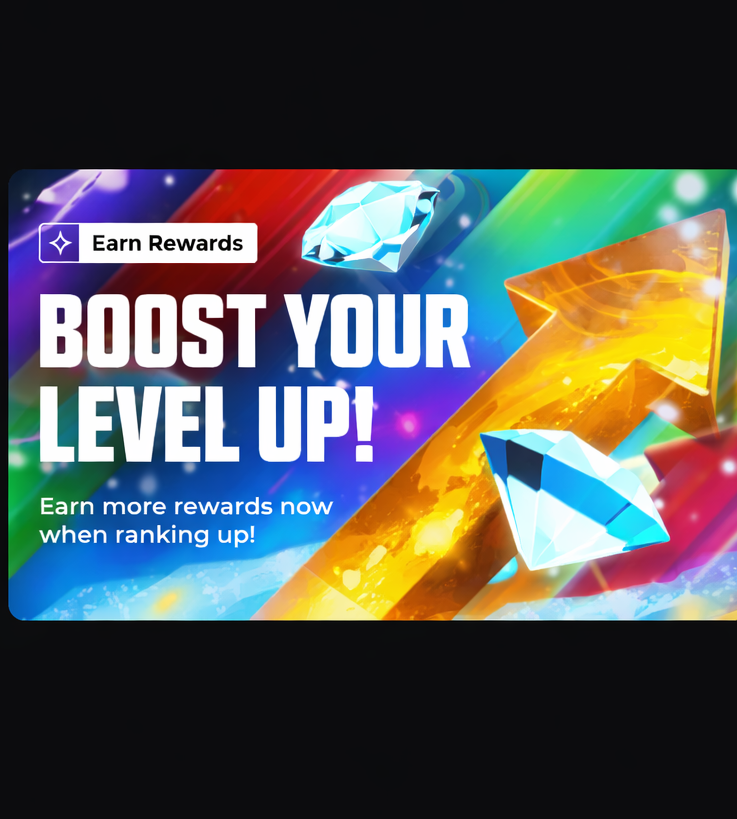
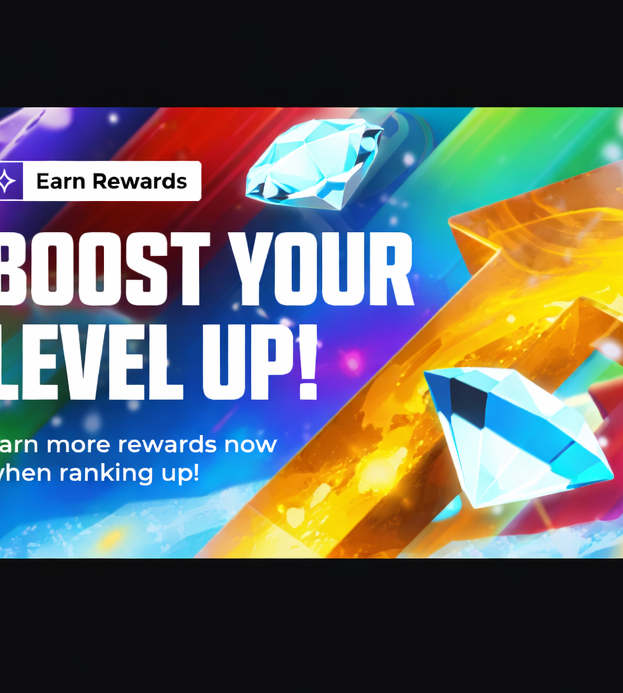
Remove visible borders from promotional images in the carousel
Remove box-shadow and adjust slide height in CSS, and re-crop promotional images to eliminate dark borders.

Replit-Commit-Author: Agent
Replit-Commit-Session-Id: bf4989e8-9e09-432c-805e-905bdef2c145
Replit-Commit-Checkpoint-Type: full_checkpoint
Replit-Commit-Event-Id: ecbdece9-0af8-4402-938c-19f3849587d8
Replit-Commit-Screenshot-Url: https://storage.googleapis.com/screenshot-production-us-central1/c081172e-606a-4c99-9edd-79b2b1875277/bf4989e8-9e09-432c-805e-905bdef2c145/B3EsdpG
Replit-Helium-Checkpoint-Created: true

diff --git a/webapp/static/css/casino.css b/webapp/static/css/casino.css
@@ -862,13 +862,13 @@ body {
 
 .promo-slide {
     flex: 0 0 320px;
-    height: 200px;
+    height: 250px;
     background-size: cover;
     background-repeat: no-repeat;
     background-position: center;
     border-radius: 12px;
     transition: transform 0.3s ease;
-    box-shadow: 0 4px 16px rgba(0, 0, 0, 0.3);
+    box-shadow: none;
 }
 
 .category-tabs {
